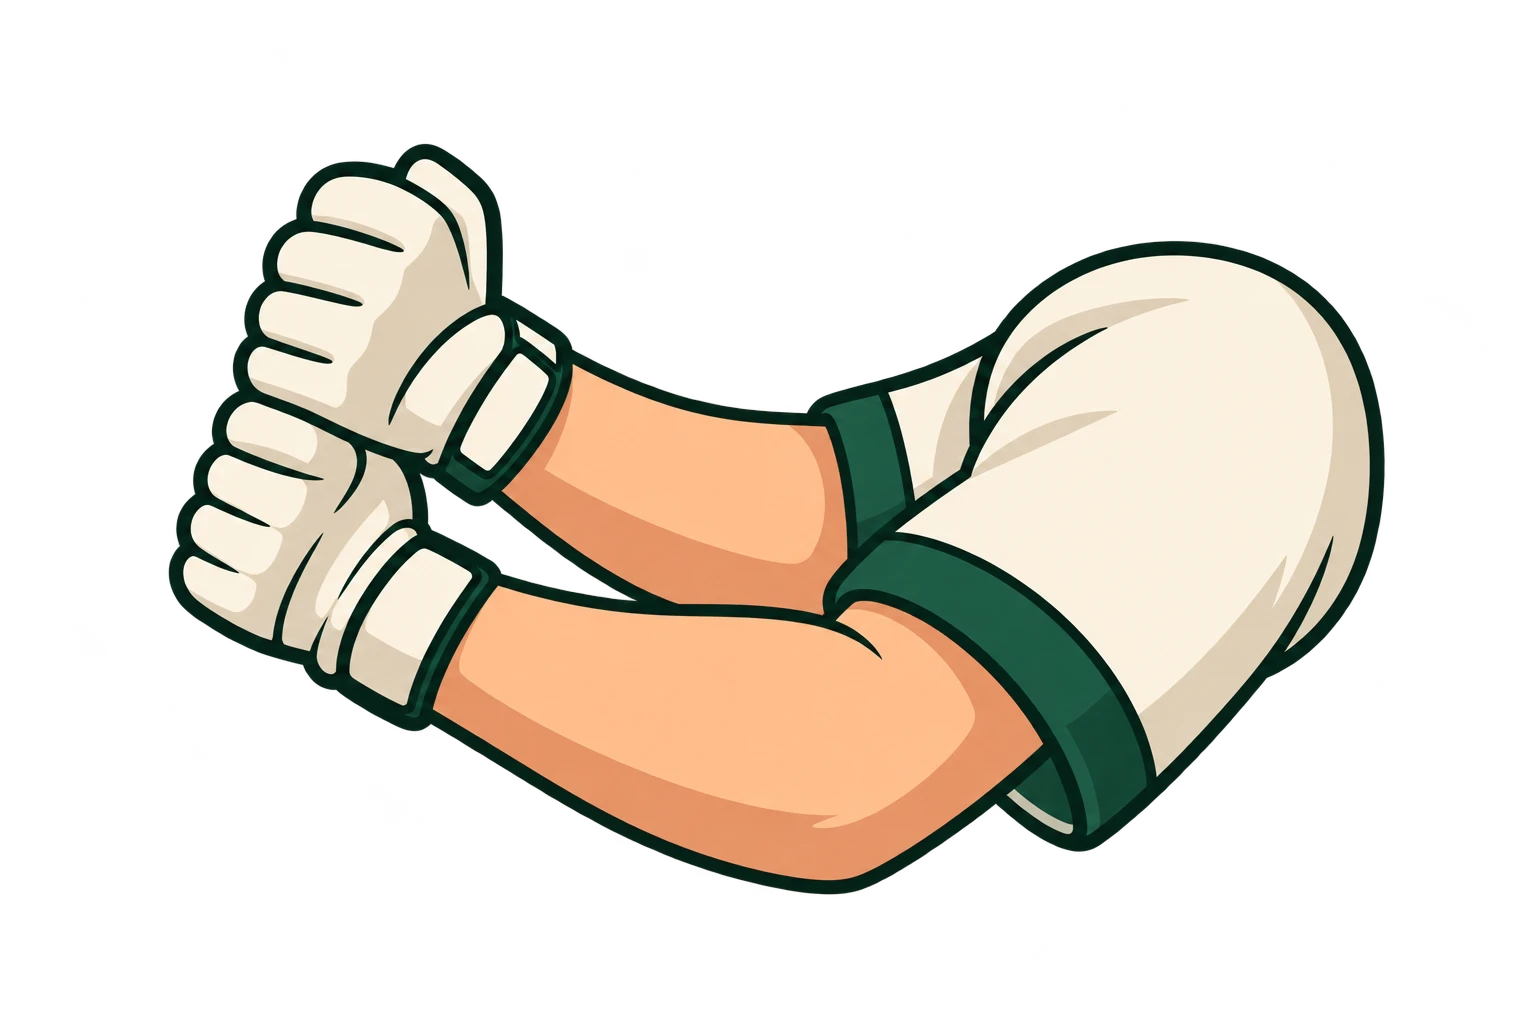
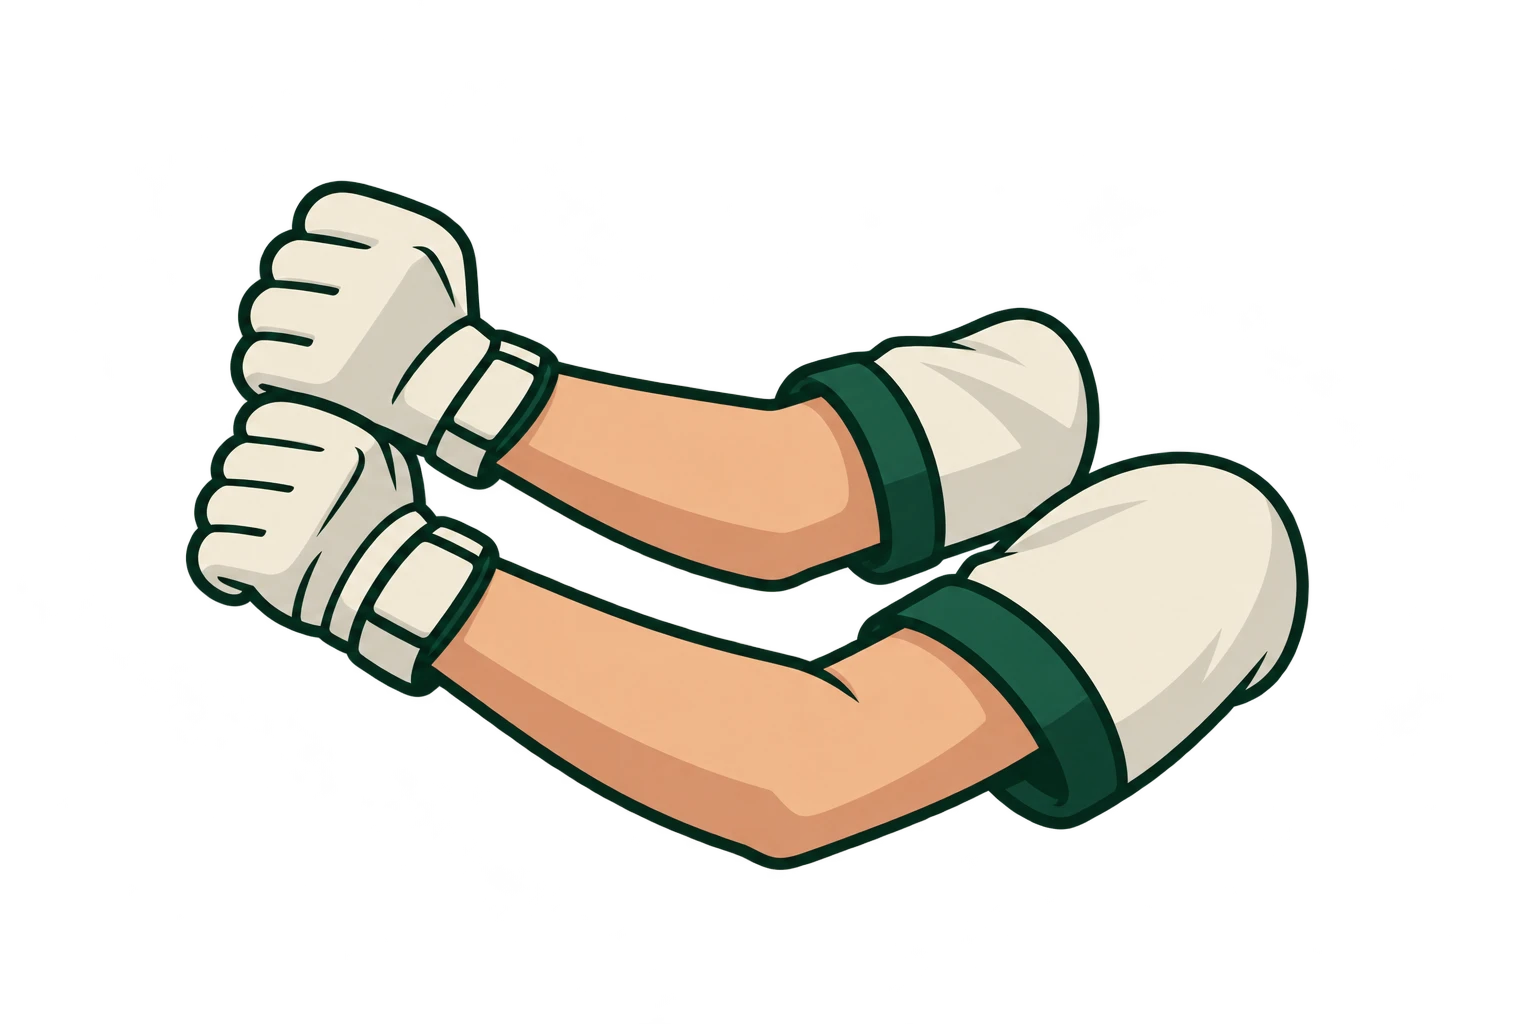
Give the batter two independent arms with elbows
- New separated-arms art; cut at load into back/front arms and sleeve/forearm
- Each arm pivots at its own shoulder socket and bends at the elbow (two-bone IK)
  to put its fist on the bat; top hand back arm, bottom hand front arm
- Rounded forearm ends tuck under the sleeves so bends show no seams
- Separator, joints and scales live in ASSETS.arms; #rig overlay shows both arms

Claude-Session: https://claude.ai/code/session_01GpQ8SornKp9egaTKrGMTAJ

Changed region(s): [[0.0938, 0.125, 0.9062, 0.875]]

diff --git a/home-run-derby/index.html b/home-run-derby/index.html
@@ -290,15 +290,27 @@
     body: {
       src: "assets/batter-body.webp",
       anchor: { x: 640, y: 1247 },     // on the ground between the feet; the whole batter is placed by this
-      shoulder: { x: 805, y: 452 },    // front shoulder socket: the arms pivot here
+      backShoulder: { x: 412, y: 440 },  // shoulder sockets: each arm pivots at its own
+      frontShoulder: { x: 805, y: 452 },
       height: 1200,                    // sprite height used for scaling
       heightOnBackground: 500,         // how tall the batter stands, in background pixels
     },
     arms: {
+      // One image with both arms. It's cut into four pieces at load time: each arm is split from the
+      // other along `separator`, then at the cuff into a sleeve (upper arm) and a forearm with the fist.
+      // Each arm bends at its elbow (two-bone IK) to put its fist on the bat.
       src: "assets/batter-arms.webp",
-      pivot: { x: 1175, y: 525 },      // centre of the shoulder sleeve (sits on body.shoulder)
-      grip: { x: 330, y: 430 },        // where the bat handle passes through the fists
-      thickness: 0.32,                 // width relative to the body; length stretches to reach the hands
+      scale: 0.45,                     // relative to the body
+      separator: [[0, 390], [230, 397], [300, 410], [360, 430], [400, 462], [430, 486], [470, 507], [510, 523], [550, 543],
+                  [590, 561], [630, 579], [670, 594], [710, 606], [750, 616], [790, 621], [830, 612], [870, 600], [910, 584],
+                  [950, 568], [990, 548], [1012, 537], [1035, 524], [1055, 511], [1072, 497], [1086, 482], [1097, 466],
+                  [1104, 440], [1107, 400], [1110, 300], [1112, 0]],   // follows the upper sleeve's outline where the sleeves touch
+      // back arm: the larger, near-camera arm (lower in the image). It crosses in front of the chest and is drawn on top.
+      back:  { part: "lower", shoulder: { x: 1170, y: 640 }, elbow: { x: 1000, y: 705 }, cut: { x: 905, y: 690 }, fist: { x: 328, y: 552 } },
+      // front arm: the smaller arm (upper in the image), drawn underneath.
+      front: { part: "upper", shoulder: { x: 1005, y: 425 }, elbow: { x: 865, y: 470 }, cut: { x: 805, y: 455 }, fist: { x: 362, y: 332 } },
+      elbowRadius: 58,                 // rounded end of the forearm, hidden under the sleeve so bends never show a seam
+      handSpacing: 70,                 // distance between the two fists along the handle (body px)
     },
     bat: {
       src: "assets/bat.webp",
@@ -315,10 +327,10 @@
   //           90 = toward the camera), so the bat sweeps around the body and foreshortens
   //   lean    body shift toward the pitcher, tilt = body rotation (degrees), squash = body height scale
   const POSES = {
-    stance:  { hx: -190, hy: -830, e: 55, a: 180, lean: 0,   tilt: 0,    squash: 1 },
-    load:    { hx: -250, hy: -850, e: 66, a: 196, lean: -18, tilt: -2.5, squash: 0.985 }, // anticipation
-    contact: { hx: 330,  hy: -620, e: -4, a: 0,   lean: 22,  tilt: 3,    squash: 1 },
-    finish:  { hx: 360,  hy: -870, e: 45, a: -150, lean: 26, tilt: 4,    squash: 1.012 },
+    stance:  { hx: -100, hy: -910, e: 55, a: 180, lean: 0,   tilt: 0,    squash: 1 },
+    load:    { hx: -150, hy: -925, e: 66, a: 196, lean: -18, tilt: -2.5, squash: 0.985 }, // anticipation
+    contact: { hx: 150,  hy: -650, e: -4, a: 0,   lean: 22,  tilt: 3,    squash: 1 },
+    finish:  { hx: 130,  hy: -930, e: 45, a: -150, lean: 26, tilt: 4,    squash: 1.012 },
   };
   // Swing timing in ms. The swing itself is CONTACT_MS (tap → bat on ball).
   const MOTION = {
@@ -491,17 +503,85 @@
     ctx.drawImage(batImage(), -B.grip.x, -B.grip.y);
     ctx.restore();
   }
-  function drawArms(p) {
-    const A = ASSETS.arms, Bd = ASSETS.body;
-    const sx = Bd.shoulder.x - Bd.anchor.x, sy = Bd.shoulder.y - Bd.anchor.y;
-    const ang = Math.atan2(p.hy - sy, p.hx - sx), len = Math.hypot(p.hx - sx, p.hy - sy);
-    const ax = A.grip.x - A.pivot.x, ay = A.grip.y - A.pivot.y;
-    const flip = Math.cos(ang) > 0 ? -1 : 1;       // mirror when the hands are out front, so the arms stay upright
-    ctx.save(); ctx.translate(sx, sy); ctx.rotate(ang);
-    ctx.scale(len / Math.hypot(ax, ay), A.thickness * flip);
-    ctx.rotate(-Math.atan2(ay, ax));
-    ctx.drawImage(img.arms, -A.pivot.x, -A.pivot.y);
+  // Cut the arms image into four pieces (see ASSETS.arms).
+  const armPieces = {};
+  function buildArmPieces() {
+    const A = ASSETS.arms, im = img.arms, w = im.width, h = im.height;
+    const sep = A.separator;
+    const regions = {
+      upper: [[0, 0], ...sep.slice().reverse()],           // above the separator
+      lower: [...sep, [w, 0], [w, h], [0, h]],             // below it
+    };
+    for (const side of ["back", "front"]) {
+      const a = A[side];
+      const ux = a.fist.x - a.elbow.x, uy = a.fist.y - a.elbow.y, ul = Math.hypot(ux, uy);
+      const u = { x: ux / ul, y: uy / ul }, big = w + h;
+      // Half-plane through the cut, perpendicular to the forearm. offset > 0 moves it toward the fist.
+      const half = (towardFist, offset) => {
+        const cx = a.cut.x + u.x * offset, cy = a.cut.y + u.y * offset, nx = -u.y, ny = u.x, d = towardFist ? 1 : -1;
+        return [[cx + nx * big, cy + ny * big], [cx - nx * big, cy - ny * big],
+                [cx - nx * big + u.x * big * d, cy - ny * big + u.y * big * d], [cx + nx * big + u.x * big * d, cy + ny * big + u.y * big * d]];
+      };
+      const path = (g, poly) => { g.beginPath(); poly.forEach(([x, y], i) => i ? g.lineTo(x, y) : g.moveTo(x, y)); g.closePath(); };
+      // Each entry in `shapes` is drawn as its own clipped pass, so the piece is their union.
+      const piece = shapes => {
+        const c = document.createElement("canvas"); c.width = w; c.height = h;
+        const g = c.getContext("2d");
+        for (const shape of shapes) {
+          g.save(); path(g, regions[a.part]); g.clip();
+          if (Array.isArray(shape)) path(g, shape); else { g.beginPath(); g.arc(shape.x, shape.y, shape.r, 0, Math.PI * 2); }
+          g.clip(); g.drawImage(im, 0, 0); g.restore();
+        }
+        return c;
+      };
+      armPieces[side] = {
+        sleeve: piece([half(false, 0)]),
+        fore: piece([half(true, 0), { x: a.elbow.x, y: a.elbow.y, r: A.elbowRadius }]),
+      };
+    }
+  }
+
+  // Two-bone IK: from the shoulder S, find the elbow E so the fist lands on T. Elbows bend downward.
+  // If the fist is out of reach the forearm stretches; if it's too close the forearm foreshortens.
+  function solveArm(S, T, L1, L2) {
+    const dx = T.x - S.x, dy = T.y - S.y, d = Math.max(Math.hypot(dx, dy), 1e-3);
+    let l2 = L2;
+    if (d > L1 + L2) l2 = d - L1 + 1e-3;
+    else if (d < Math.abs(L2 - L1)) l2 = Math.hypot(d, L1);
+    const cosA = clamp((L1 * L1 + d * d - l2 * l2) / (2 * L1 * d), -1, 1), A = Math.acos(cosA), base = Math.atan2(dy, dx);
+    const e1 = { x: S.x + Math.cos(base + A) * L1, y: S.y + Math.sin(base + A) * L1 };
+    const e2 = { x: S.x + Math.cos(base - A) * L1, y: S.y + Math.sin(base - A) * L1 };
+    return { E: e1.y >= e2.y ? e1 : e2, l2 };
+  }
+  // Draw an image so that its segment (a→b, in image px) lands on (A→B), with a given thickness scale.
+  function drawSegment(image, a, b, A, B, thick) {
+    const sa = Math.atan2(b.y - a.y, b.x - a.x), ta = Math.atan2(B.y - A.y, B.x - A.x);
+    ctx.save(); ctx.translate(A.x, A.y); ctx.rotate(ta);
+    ctx.scale(Math.hypot(B.x - A.x, B.y - A.y) / Math.hypot(b.x - a.x, b.y - a.y), thick);
+    ctx.rotate(-sa);
+    ctx.drawImage(image, -a.x, -a.y);
     ctx.restore();
+  }
+  function armTargets(p) {
+    const half = ASSETS.arms.handSpacing / 2;
+    // Top hand (back arm) sits toward the barrel, bottom hand (front arm) toward the knob.
+    return { back: { x: p.hx + p.dx * half, y: p.hy + p.dy * half }, front: { x: p.hx - p.dx * half, y: p.hy - p.dy * half } };
+  }
+  function armJoints(p, side) {
+    const A = ASSETS.arms, a = A[side], Bd = ASSETS.body;
+    const sock = side === "back" ? Bd.backShoulder : Bd.frontShoulder;
+    const S = { x: sock.x - Bd.anchor.x, y: sock.y - Bd.anchor.y }, T = armTargets(p)[side];
+    const L1 = Math.hypot(a.elbow.x - a.shoulder.x, a.elbow.y - a.shoulder.y) * A.scale;
+    const L2 = Math.hypot(a.fist.x - a.elbow.x, a.fist.y - a.elbow.y) * A.scale;
+    const { E } = solveArm(S, T, L1, L2);
+    return { S, E, T };
+  }
+  function drawArm(p, side) {
+    const A = ASSETS.arms, a = A[side], { S, E, T } = armJoints(p, side);
+    // The art points left; mirror it when the arm reaches to the right so it never draws upside down.
+    const thick = A.scale * (T.x > S.x ? -1 : 1);
+    drawSegment(armPieces[side].fore, a.elbow, a.fist, E, T, thick);    // forearm first, tucked under
+    drawSegment(armPieces[side].sleeve, a.shoulder, a.elbow, S, E, thick);
   }
   function drawBatter(now) {
     const p = batterPose(now), s = L.bodyScale, Bd = ASSETS.body;
@@ -511,8 +591,9 @@
     const behind = p.dx < 0;                       // bat cocked or wrapped behind the batter
     if (behind) drawBat(p);
     ctx.drawImage(img.body, -Bd.anchor.x, -Bd.anchor.y);
-    if (!behind) drawBat(p);
-    drawArms(p);
+    if (!behind) drawBat(p);                       // the grip always sits behind the fists
+    drawArm(p, "front");
+    drawArm(p, "back");
     ctx.restore();
     if (showRig) drawRig(p);
   }
@@ -527,14 +608,18 @@
       ctx.font = "bold 11px system-ui, sans-serif"; ctx.textAlign = "left";
       ctx.lineWidth = 3; ctx.strokeStyle = "#000"; ctx.strokeText(label, pt.x + 8, pt.y + 4); ctx.fillStyle = "#fff"; ctx.fillText(label, pt.x + 8, pt.y + 4);
     };
-    const shoulder = toScreen(Bd.shoulder.x - Bd.anchor.x, Bd.shoulder.y - Bd.anchor.y);
+    for (const side of ["back", "front"]) {
+      const j = armJoints(p, side), S = toScreen(j.S.x, j.S.y), E = toScreen(j.E.x, j.E.y), T = toScreen(j.T.x, j.T.y);
+      ctx.strokeStyle = side === "back" ? "#ff8a00" : "#ffd400"; ctx.lineWidth = 3;
+      ctx.beginPath(); ctx.moveTo(S.x, S.y); ctx.lineTo(E.x, E.y); ctx.lineTo(T.x, T.y); ctx.stroke();
+      mark(S, "#ff8a00", `body.${side}Shoulder`); mark(E, "#ffd400", `${side} elbow`); mark(T, "#00a2ff", `${side} fist`);
+    }
     const hands = toScreen(p.hx, p.hy);
     const sw = sweetSpot(p);
     ctx.strokeStyle = "rgba(255,255,255,0.8)"; ctx.setLineDash([6, 5]); ctx.lineWidth = 1.5;
     ctx.beginPath(); ctx.moveTo(0, L.fenceTop); ctx.lineTo(W, L.fenceTop); ctx.moveTo(0, L.fenceBase); ctx.lineTo(W, L.fenceBase); ctx.stroke(); ctx.setLineDash([]);
     mark({ x: L.bx, y: L.feetY }, "#7a3cff", "body.anchor / batterFeet");
-    mark(shoulder, "#ff8a00", "body.shoulder = arms.pivot");
-    mark(hands, "#00a2ff", "hands = arms.grip = bat.grip");
+    mark(hands, "#00a2ff", "bat.grip");
     mark({ x: L.bx + sw.x * s, y: L.feetY + sw.y * s }, "#ff2d55", "bat.sweetSpot");
     mark(L.contact, "#00c853", "contact (ball arrives)");
     mark(L.mouth, "#00c853", "machine mouth");
@@ -892,6 +977,7 @@
   const playBtn = $("play");
   playBtn.disabled = true; playBtn.textContent = "LOADING…";
   loadArt().then(() => {
+    buildArmPieces();
     resize();
     playBtn.disabled = false; playBtn.textContent = "PLAY BALL";
     requestAnimationFrame(frame);

diff --git a/home-run-derby/README.md b/home-run-derby/README.md
@@ -20,13 +20,17 @@ A batting-only baseball prototype: step 1 toward a fuller baseball game. It's on
 |---|---|
 | `assets/sandlot.webp` | Background |
 | `assets/batter-body.webp` | Batter without arms |
-| `assets/batter-arms.webp` | Both arms, gloved fists together |
+| `assets/batter-arms.webp` | Both arms, separated, gloved fists together |
 | `assets/bat.webp` | Bat, barrel up |
 
 The batter is built from three layers, bottom to top:
 1. **Body**
 2. **Bat**: its grip sits behind the fists
-3. **Arms**: they pivot at the front shoulder and stretch to reach the hands each frame
+3. **Arms**: one per shoulder.
+   - At load time the arms image is cut into four pieces: the two arms are split along `ASSETS.arms.separator`, then each is split at the cuff into a sleeve and a forearm.
+   - Each frame, each arm bends at its elbow to put its fist on the bat (two-bone IK). Elbows bend downward.
+   - The forearm's rounded end tucks under the sleeve.
+   - The top hand belongs to the back arm, the bottom hand to the front arm.
 
 The bat is posed in 3D (elevation and direction) and drawn foreshortened, so it sweeps around the body. When it points backward it's drawn behind the body.
 
@@ -40,8 +44,9 @@ The motion runs in this order:
 Everything you'd want to adjust is in one place near the top of the script:
 - **`ASSETS`**: each image's anchor and pivot points in its own pixels, plus the scales:
   - where the batter stands on the background
-  - body height, the shoulder socket and arms pivot
-  - fist grip, bat grip, tip and sweet spot
+  - body height and both shoulder sockets
+  - each arm's shoulder, elbow, cuff cut and fist, plus the arm separator line
+  - bat grip, tip and sweet spot
   - fence line and machine spot
 - **`POSES`**: keyframes for stance, load, contact and finish.
   - `hx, hy` is the hands position in body pixels from the feet.
